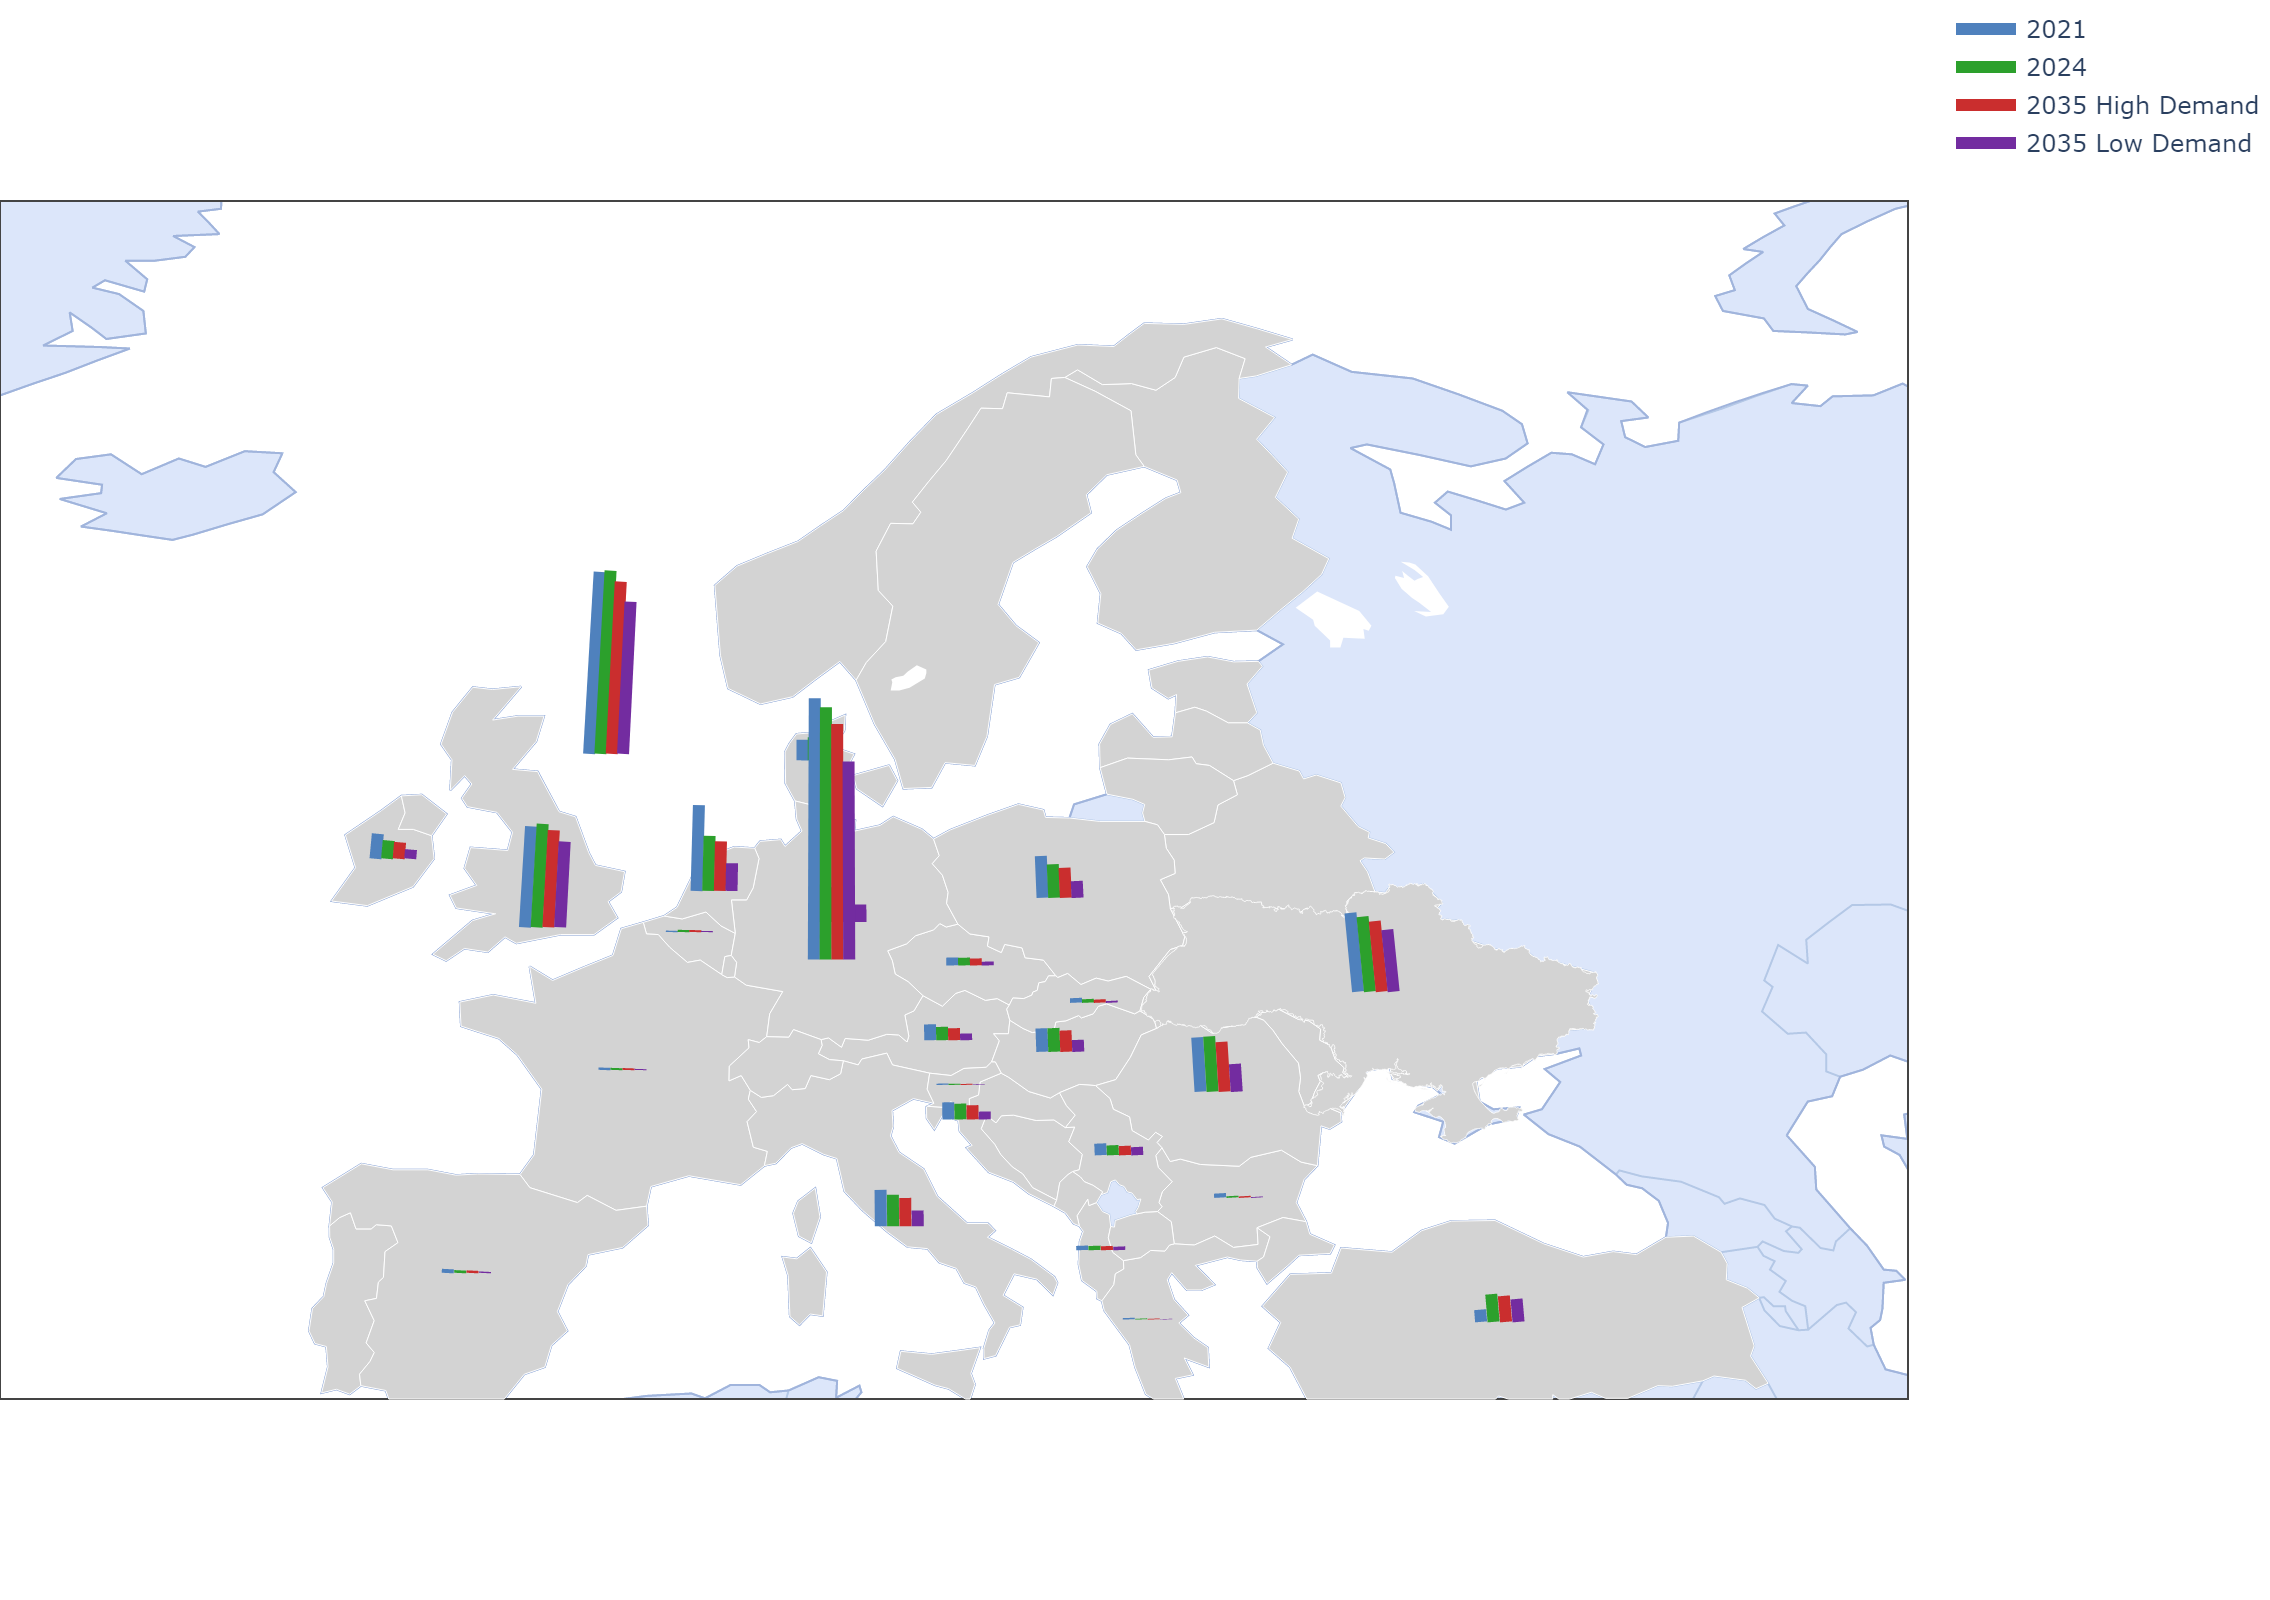
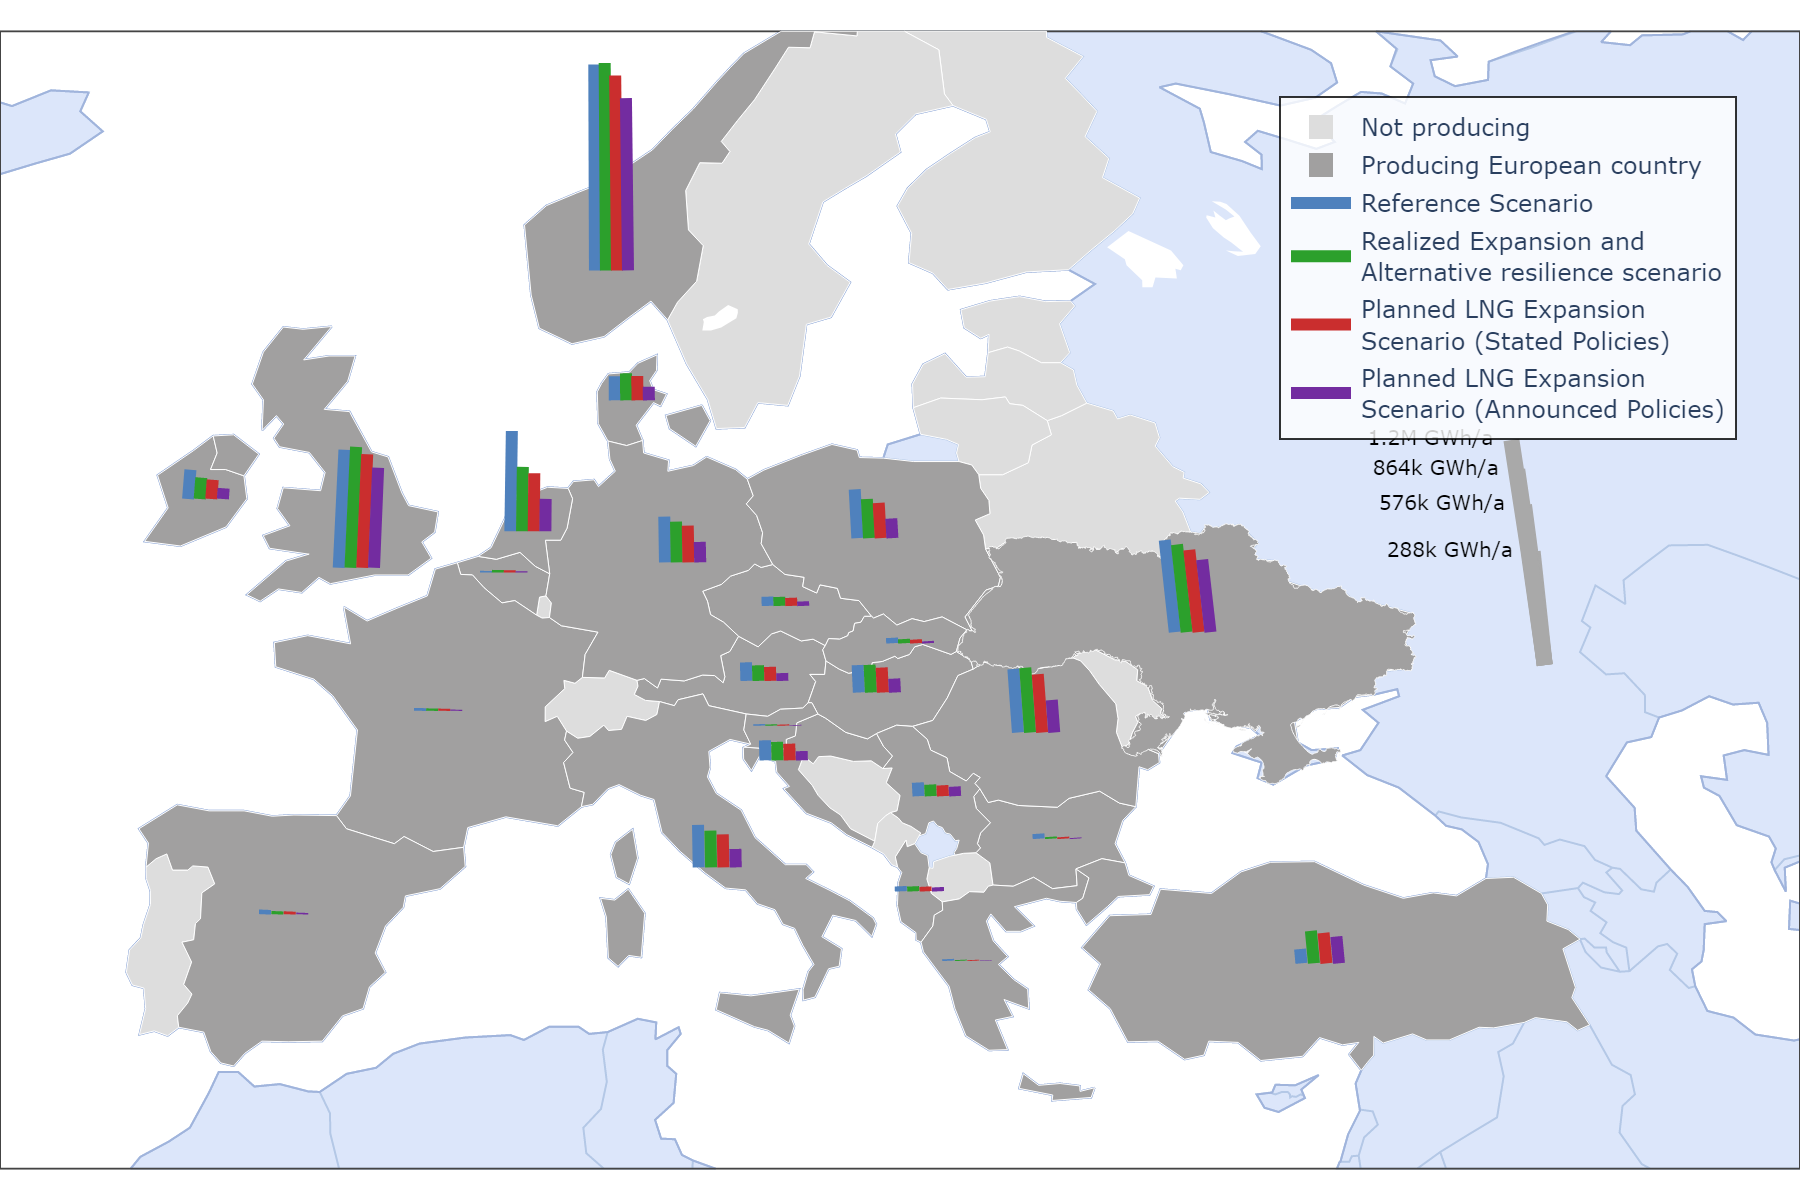
Update european map with bars

diff --git a/00_code_base/08_output_preparation/europe_LNG_map_plotly.py b/00_code_base/08_output_preparation/europe_LNG_map_plotly.py
@@ -4,6 +4,8 @@ import numpy as np
 import plotly.graph_objects as go
 import requests
 import json
+from shapely.geometry import shape
+import shapely
 
 save_output = True
 scenarios = ["2021", "2024", "2035 High Demand", "2035 Low Demand"]
@@ -25,12 +27,14 @@ for c in ["Sweden", "Montenegro"]:
             data_gas_prod,
             pd.DataFrame([{"Country": c, **{s: 0.0 for s in scenarios}}])
         ], ignore_index=True)
-excel_countries = [c for c in data_gas_prod["Country"].unique() if c != "Total"]
+
+# Exclude Total row for plot and calculations
+excel_countries = data_gas_prod[data_gas_prod["Country"] != "Total"].copy()
 
 # Output path
 output_path = "02_plots"
 
-# Fix all countries names
+# Country ISO3 mapping
 country_name_to_iso3 = {
     "Albania": "ALB", "Austria": "AUT", "Belarus": "BLR", "Belgium": "BEL",
     "Bosnia and Herzegovina": "BIH", "Bulgaria": "BGR", "Croatia": "HRV",
@@ -44,25 +48,31 @@ country_name_to_iso3 = {
     "UK": "GBR", "Ukraine": "UKR", "Kosovo": "XKX", "Sweden": "SWE",
     "Montenegro": "MNE", "Malta": "MLT"
 }
-data_gas_prod["ISO_A3"] = data_gas_prod["Country"].map(country_name_to_iso3)
+excel_countries["ISO_A3"] = excel_countries["Country"].map(country_name_to_iso3)
 
-# Pastel colors 
-pastel_colors = {"Producing": "#b5b4b4", "Non-Producing": "#DFDFDF"}
+# Country colors (Producing vs Non-Producing)
+pastel_colors = {"Producing": "#a1a0a0", "Non-Producing": "#dddddd"}
 def country_color(row):
     vals = row[scenarios].values
     return pastel_colors["Producing"] if np.any(vals > 0) else pastel_colors["Non-Producing"]
-data_gas_prod["color"] = data_gas_prod.apply(country_color, axis=1)
 
-# Find global max
-vals_for_scaling = data_gas_prod.loc[data_gas_prod['Country'] != "Total", scenarios].values.flatten()
+excel_countries["color"] = excel_countries.apply(country_color, axis=1)
+
+# Bar scaling setup
+vals_for_scaling = excel_countries[scenarios].values.flatten()
 global_max_raw = np.max(vals_for_scaling)
 global_max_sqrt = np.sqrt(global_max_raw)
-bar_height_scale = 6
+bar_height_scale = 7
 bar_colors = ["#4f81bd", "#2ca02c", "#ca2e2e", "#732ca0"]
 bar_spacing = 0.7
-bar_position_fixed = {"Slovakia": (0.6, 0), "Hungary": (-0.6, 0), "Norway": (-6, -4)}
+bar_position_fixed = {
+    "Slovakia": (0.6, 0),
+    "Hungary": (-0.6, 0),
+    "Norway": (2, 0),
+    "Germany": (1, 0)
+}
 
-
+# Country coordinates
 COUNTRY_COORDINATES = {
     'ALB': (20.1683, 41.1533), 'AUT': (14.5501, 47.5162), 'BLR': (27.9534, 53.7098),
     'BEL': (4.3517, 50.8503), 'BIH': (17.6791, 43.9159), 'BGR': (25.4858, 42.7339),
@@ -80,9 +90,9 @@ COUNTRY_COORDINATES = {
 }
 
 def get_country_coordinates(iso3):
-    return COUNTRY_COORDINATES.get(iso3, (10, 50))  # fallback to central Europe
+    return COUNTRY_COORDINATES.get(iso3, (10, 50))
 
-# Fix Crimea handling
+# Load Ukraine GeoJSON (Crimea fix)
 ukraine_json_url = "https://geodata.ucdavis.edu/gadm/gadm4.1/json/gadm41_UKR_0.json"
 ukraine_json_path = os.path.join("00_code_base", "08_output_preparation", "gadm41_UKR_0.json")
 if not os.path.exists(ukraine_json_path):
@@ -92,9 +102,6 @@ if not os.path.exists(ukraine_json_path):
 with open(ukraine_json_path, "r", encoding="utf-8") as f:
     ukraine_geojson = json.load(f)
 
-from shapely.geometry import shape
-import shapely
-
 def get_centroid_from_geojson(geojson_feature):
     geom = shape(geojson_feature["geometry"])
     if isinstance(geom, shapely.geometry.multipolygon.MultiPolygon):
@@ -103,43 +110,66 @@ def get_centroid_from_geojson(geojson_feature):
     else:
         return geom.centroid
 
-# Create the figure
+# Create figure
 fig = go.Figure()
 
-# Europe base map
+# Add base layer: non-producing countries
+non_prod_countries = excel_countries[excel_countries["color"] == pastel_colors["Non-Producing"]]
 fig.add_trace(go.Choropleth(
-    locations=data_gas_prod["ISO_A3"],
-    z=np.zeros(len(data_gas_prod)),
-    colorscale=[[0, "lightgrey"], [1, "lightgrey"]],
+    locations=non_prod_countries["ISO_A3"],
+    z=[0]*len(non_prod_countries),
+    colorscale=[[0, pastel_colors["Non-Producing"]], [1, pastel_colors["Non-Producing"]]],
     showscale=False,
     marker_line_color='white',
     marker_line_width=0.5,
-    name="Europe"
+    name="Not producing",
+    showlegend=True
+))
+
+# Add producing countries (gray)
+prod_countries = excel_countries[excel_countries["color"] == pastel_colors["Producing"]]
+fig.add_trace(go.Choropleth(
+    locations=prod_countries["ISO_A3"],
+    z=[0]*len(prod_countries),
+    colorscale=[[0, pastel_colors["Producing"]], [1, pastel_colors["Producing"]]],
+    showscale=False,
+    marker_line_color='white',
+    marker_line_width=0.5,
+    name="Producing European country",
+    showlegend=True
 ))
 
 # Ukraine separately
-ukr_row = data_gas_prod[data_gas_prod["ISO_A3"]=="UKR"]
+ukr_row = excel_countries[excel_countries["ISO_A3"]=="UKR"]
 if not ukr_row.empty:
+    color_type = "Producing" if (ukr_row[scenarios].values > 0).any() else "Non-Producing"
     fig.add_trace(go.Choropleth(
         geojson=ukraine_geojson,
         featureidkey="properties.GID_0",
         locations=ukr_row["ISO_A3"],
         z=[0],
-        colorscale=[[0, "lightgrey"], [1, "lightgrey"]],
+        colorscale=[[0, pastel_colors[color_type]], [1, pastel_colors[color_type]]],
         showscale=False,
         marker_line_color='white',
         marker_line_width=0.5,
-        name="Ukraine"
+        name="Ukraine",
+        showlegend=False
     ))
 
-# Bar plot 
-for idx, row in data_gas_prod.iterrows():
+# Bar plots
+scenario_labels = [
+    "Reference Scenario",
+    "Realized Expansion and<br>Alternative resilience scenario",
+    "Planned LNG Expansion<br>Scenario (Stated Policies)",
+    "Planned LNG Expansion<br>Scenario (Announced Policies)"
+]
+
+for idx, row in excel_countries.iterrows():
     iso3 = row["ISO_A3"]
     vals = np.array(row[scenarios], dtype=float)
     vals = np.nan_to_num(vals, nan=0.0)
     vals_scaled = np.sqrt(vals) / global_max_sqrt * bar_height_scale
 
-    # Centroid
     if iso3 == "UKR":
         centroid = get_centroid_from_geojson(ukraine_geojson["features"][0])
         x, y = centroid.x, centroid.y
@@ -147,7 +177,6 @@ for idx, row in data_gas_prod.iterrows():
         lon, lat = get_country_coordinates(iso3)
         x, y = lon, lat
 
-    # Apply small manual offsets
     if row["Country"] in bar_position_fixed:
         x += bar_position_fixed[row["Country"]][0]
         y += bar_position_fixed[row["Country"]][1]
@@ -159,28 +188,96 @@ for idx, row in data_gas_prod.iterrows():
             lat=[y, y+val],
             mode="lines",
             line=dict(color=bar_colors[i], width=6),
-            showlegend=(idx==0),
-            name=(scenarios[i] if idx==0 else None)
+            name=scenario_labels[i] if idx==0 else None,
+            showlegend=(idx==0)
         ))
 
-
+# Layout and legend
 fig.update_geos(
+    scope='world',
+    projection_type='natural earth',
     showland=True,
-    landcolor='rgb(220, 230, 250)',
+    landcolor='rgb(240, 245, 255)',
     showcountries=True,
     countrycolor='rgb(180, 200, 230)',
     showcoastlines=True,
     coastlinecolor='rgb(160, 180, 220)',
-    projection_type='natural earth',
-    center=dict(lat=55, lon=15),
-    lataxis_range=[34,72],
-    lonaxis_range=[-25,45]
+    center=dict(lat=50, lon=20),
+    lataxis=dict(range=[30, 65]),
+    lonaxis=dict(range=[-25, 40]),
 )
-fig.update_layout(height=800, width=1135, margin={"r":0,"t":0,"l":0,"b":0})
+
+fig.update_layout(
+        geo=dict(
+            scope='world',  # or 'world'
+            projection_type='natural earth',
+            showland=True,
+            landcolor='rgb(220, 230, 250)',
+            showcountries=True,
+            countrycolor='rgb(180, 200, 230)',
+            showcoastlines=True,
+            coastlinecolor='rgb(160, 180, 220)',
+            center=dict(lat=50, lon=20),
+            lataxis=dict(range=[30, 65]),
+            lonaxis=dict(range=[-25, 40]),
+        ),
+        legend=dict(
+            x=0.965,  
+            y=0.92,
+            xanchor='right',
+            yanchor='top',
+            bgcolor='rgba(255, 255, 255, 0.8)',
+            bordercolor='rgba(0, 0, 0, 0.8)',
+            borderwidth=1,
+        ),
+        margin={"r": 0, "t": 0, "l": 0, "b": 0},
+        width=900,
+        height=650
+    )
+
+def human_readable(val):
+    absolute_val = val * global_max_raw  
+    if absolute_val >= 1_000_000:
+        return f"{round(absolute_val/1_000_000,1)}M"
+    elif absolute_val >= 1_000:
+        return f"{round(absolute_val/1_000)}k"
+    else:
+        return str(int(absolute_val))
+    
+# Base coordinates for the legend
+scale_lon, scale_lat = 45, 48  # adjust as needed
+legend_bar_width = 8
+legend_label_offset_lon = 3  # distance of label from bar
+
+# Fractions of the maximum for intermediate bars
+scale_vals = [0.25, 0.5, 0.75, 1.0]
+
+for val_frac in scale_vals:
+    val_height = np.sqrt(val_frac * global_max_raw) / global_max_sqrt * bar_height_scale
+    
+    # Draw vertical bar 
+    fig.add_trace(go.Scattergeo(
+        lon=[scale_lon, scale_lon + 0.3],
+        lat=[scale_lat, scale_lat + val_height],
+        mode="lines",
+        line=dict(color="darkgrey", width=legend_bar_width),
+        showlegend=False
+    ))
+    
+    # Draw the label 
+    fig.add_trace(go.Scattergeo(
+        lon=[scale_lon - legend_label_offset_lon],
+        lat=[scale_lat + val_height],
+        mode="text",
+        text=[f"{human_readable(val_frac)} GWh/a"],
+        showlegend=False,
+        textfont=dict(size=10, color="black"),
+        hoverinfo='skip'
+    ))
 
 # Show or save
 if save_output:
     os.makedirs(output_path, exist_ok=True)
-    fig.write_image(os.path.join(output_path, "europe_bar_plot_simple.png"), width=1135, height=800, scale=2)
+    fig.write_image(os.path.join(output_path, "europe_bar_plot_simple.png"), width=900, height=600, scale=2)
 else:
     fig.show()

diff --git a/00_code_base/08_output_preparation/plot_visualization.py b/00_code_base/08_output_preparation/plot_visualization.py
@@ -147,7 +147,7 @@ fig = plot_flow_map(df_final, filtered_ports, df_with_imports, filtered_LNG_IMPO
 
 #Save the figure
 if save_flow_no_invest: 
-    fig.write_image(output_path_no_invest + ".png", width=1135, height=800, scale=2)
+    fig.write_image(output_path_no_invest + ".png", width=900, height=650, scale=2)
     utilization_summary.to_excel(output_path_xlsx, index=False)
     bar_fig.write_image(output_path_no_invest + '_bar_chart.png', width=1135, height=800, scale=2)
 
@@ -197,7 +197,7 @@ df_clean = process_pipelines(df_invest, file_name_invest, input_excluded_pipelin
 fig = plot_flow_map(df_clean, filtered_ports, df_with_imports, filtered_LNG_IMPORT_COORDS)
 
 if save_flow_invest: 
-    fig.write_image(output_path_invest + ".png", width=1135, height=800, scale=2)
+    fig.write_image(output_path_invest + ".png", width=900, height=650, scale=2)
     utilization_summary_invest.to_excel(output_path_invest_xlsx, index=False)
     bar_fig.write_image(output_path_invest + '_bar_chart.png', width=1135, height=800, scale=2)
 

diff --git a/00_code_base/08_output_preparation/output_visualization_functions.py b/00_code_base/08_output_preparation/output_visualization_functions.py
@@ -624,7 +624,7 @@ def plot_cost_map(input_path, scenario, base_path, geojson_path, save):
     )
 
     if save:
-        fig.write_image(output_file, width=1135, height=800, scale=2)
+        fig.write_image(output_file, width=900, height=650, scale=2)
     else:
         fig.show()
      
@@ -780,7 +780,7 @@ def plot_cost_difference(input_difference, full_scenario_name, scenario, base_pa
     )'''
 
     if save:
-        fig.write_image(output_file, width=1135, height=800, scale=3)
+        fig.write_image(output_file, width=900, height=650, scale=3)
     else:
         fig.show()
 
